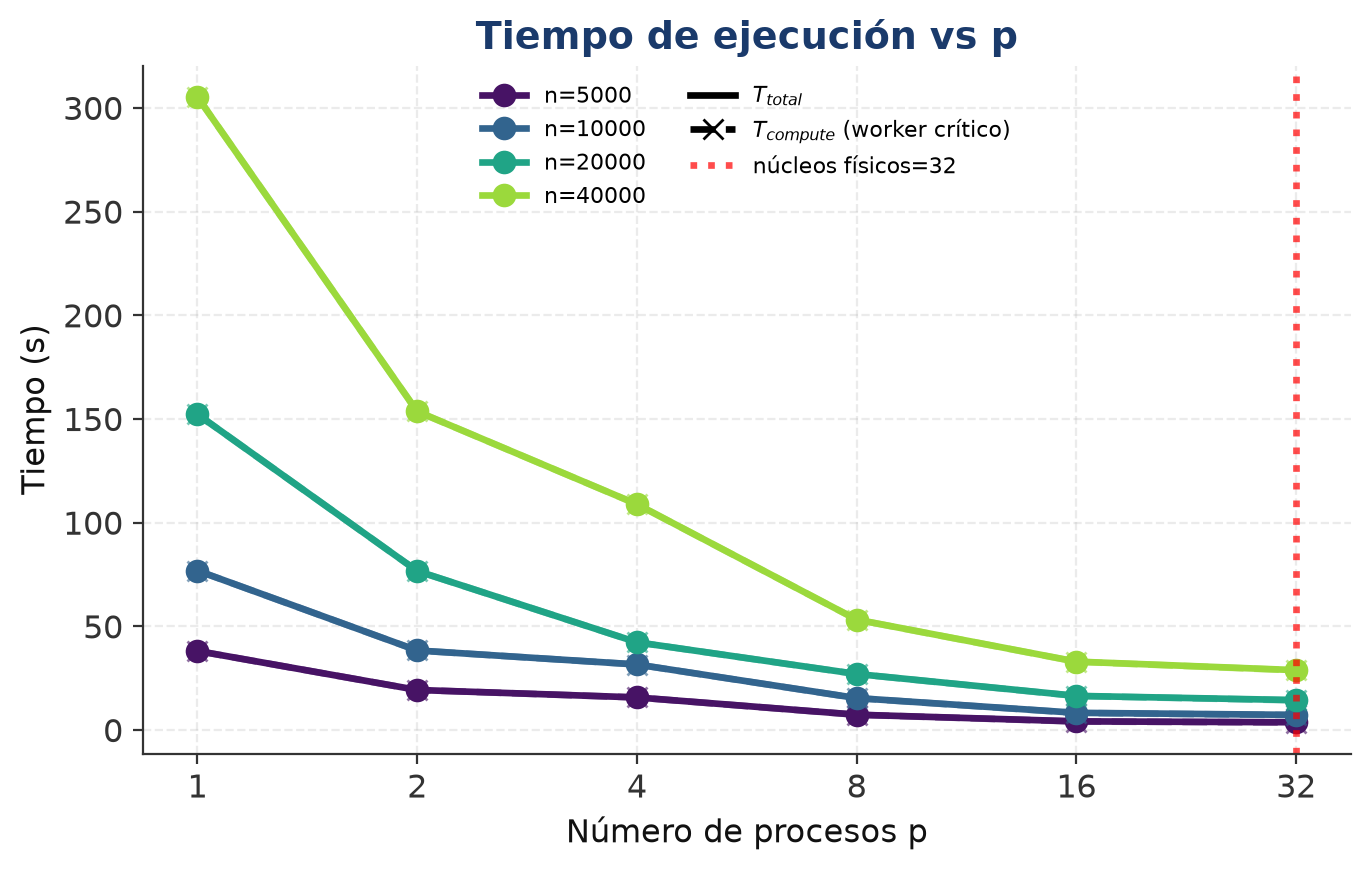
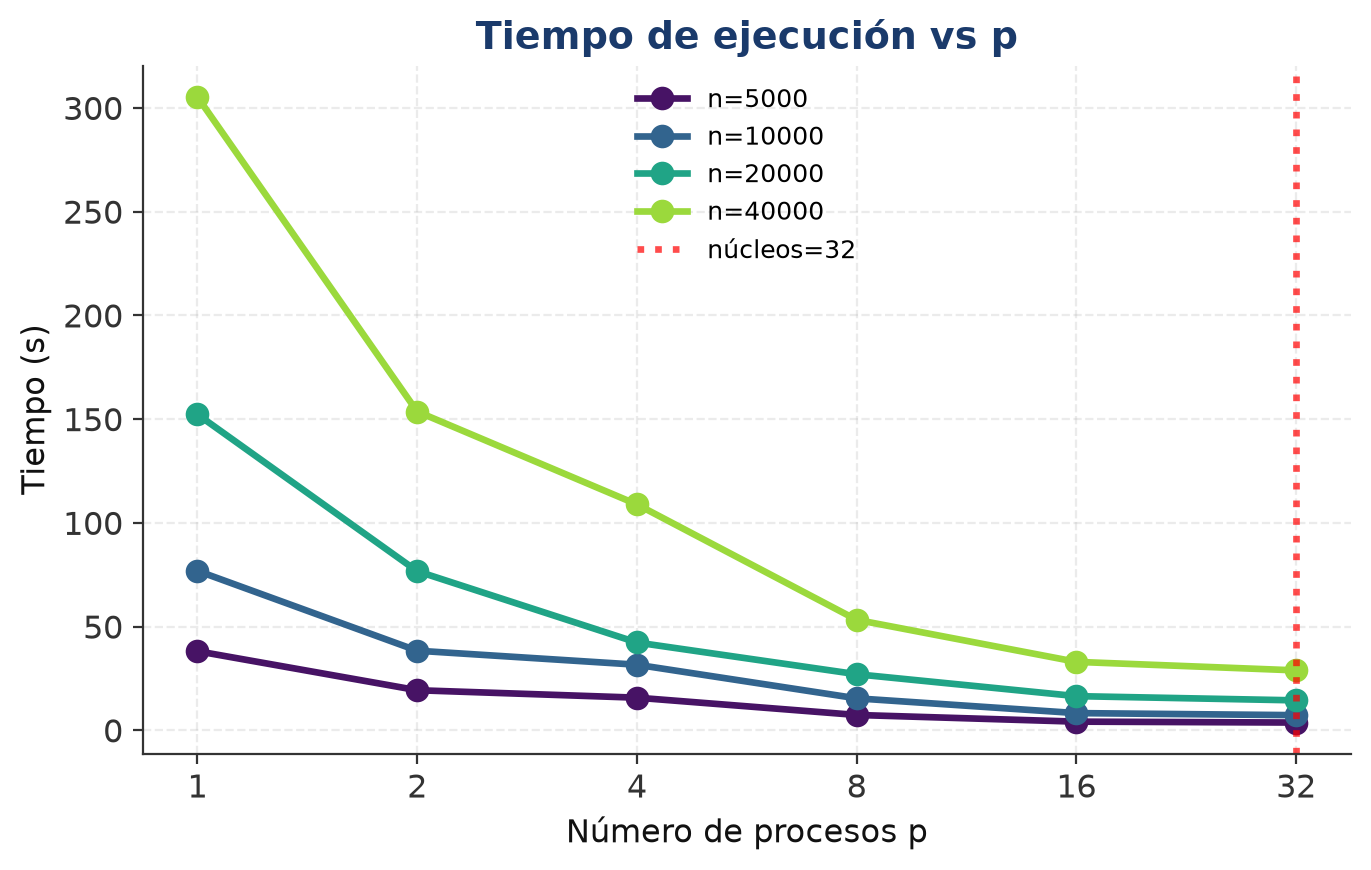
Simplificar grafica de tiempos (arreglar leyenda cortada)

Changed region(s): [[0.337, 0.0931, 0.7352, 0.2793], [0.7046, 0.8069, 0.919, 0.8379], [0.5208, 0.2793, 0.6127, 0.3103]]

diff --git a/code/analyze.py b/code/analyze.py
@@ -76,15 +76,11 @@ fig, ax = plt.subplots(figsize=(7, 4.5))
 for i, n in enumerate(N_LIST):
     sub = agg[agg.n == n].sort_values("p")
     ax.plot(sub.p, sub.T_total, "o-", color=colors[i], label=f"n={n}")
-    ax.plot(sub.p, sub.T_compute, "x--", color=colors[i], alpha=0.6)
-ax.plot([], [], "k-", label="$T_{total}$")
-ax.plot([], [], "kx--", label="$T_{compute}$ (worker crítico)")
+ax.axvline(CORES, color="red", ls=":", alpha=0.7, label=f"núcleos={CORES}")
 ax.set_xscale("log", base=2); ax.set_xticks(P_LIST); ax.set_xticklabels(P_LIST)
-ax.axvline(CORES, color="red", ls=":", alpha=0.7,
-           label=f"núcleos físicos={CORES}")
 ax.set_xlabel("Número de procesos p"); ax.set_ylabel("Tiempo (s)")
 ax.set_title("Tiempo de ejecución vs p")
-ax.legend(fontsize=8, ncol=2)
+ax.legend(fontsize=9)
 fig.tight_layout(); fig.savefig(os.path.join(FIG, FIG_PREFIX + "tiempos.png")); plt.close()
 
 # ----------------------------------------------------------------------